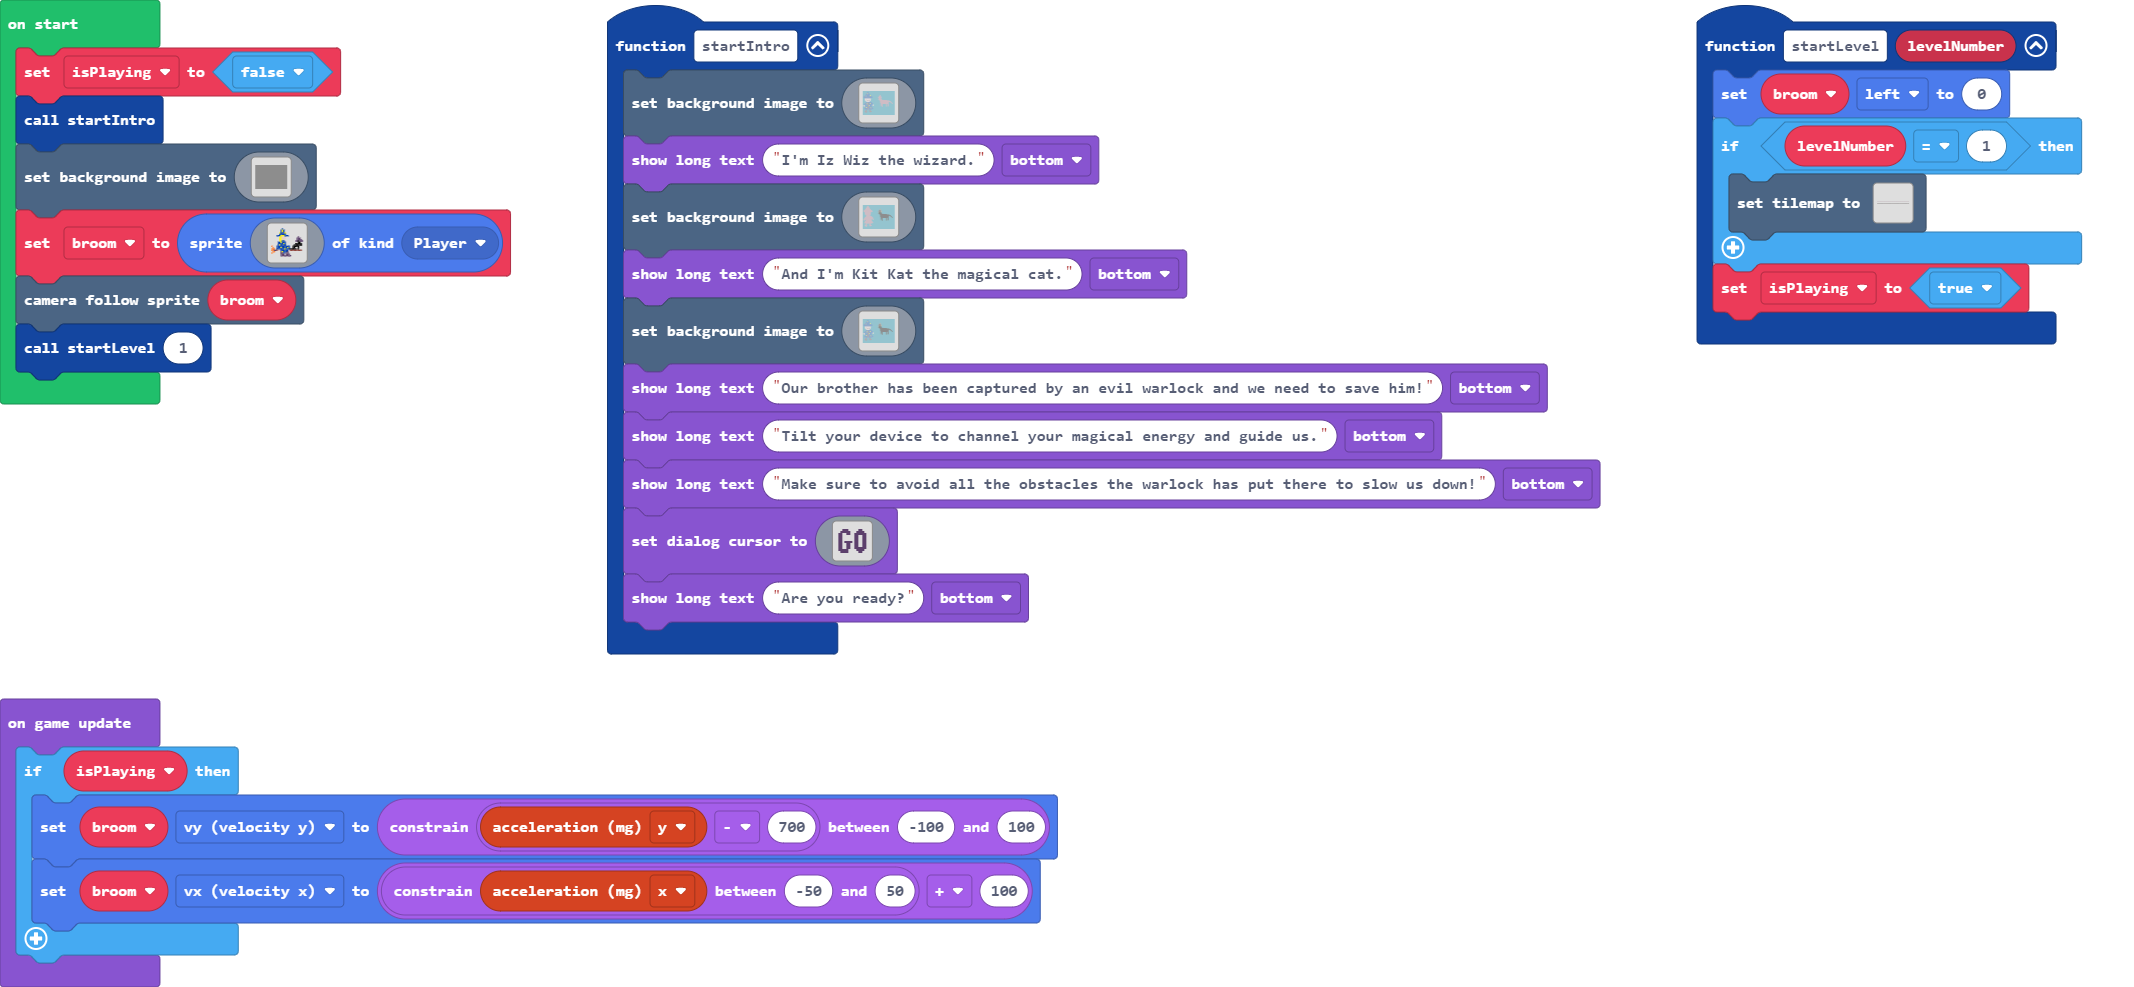
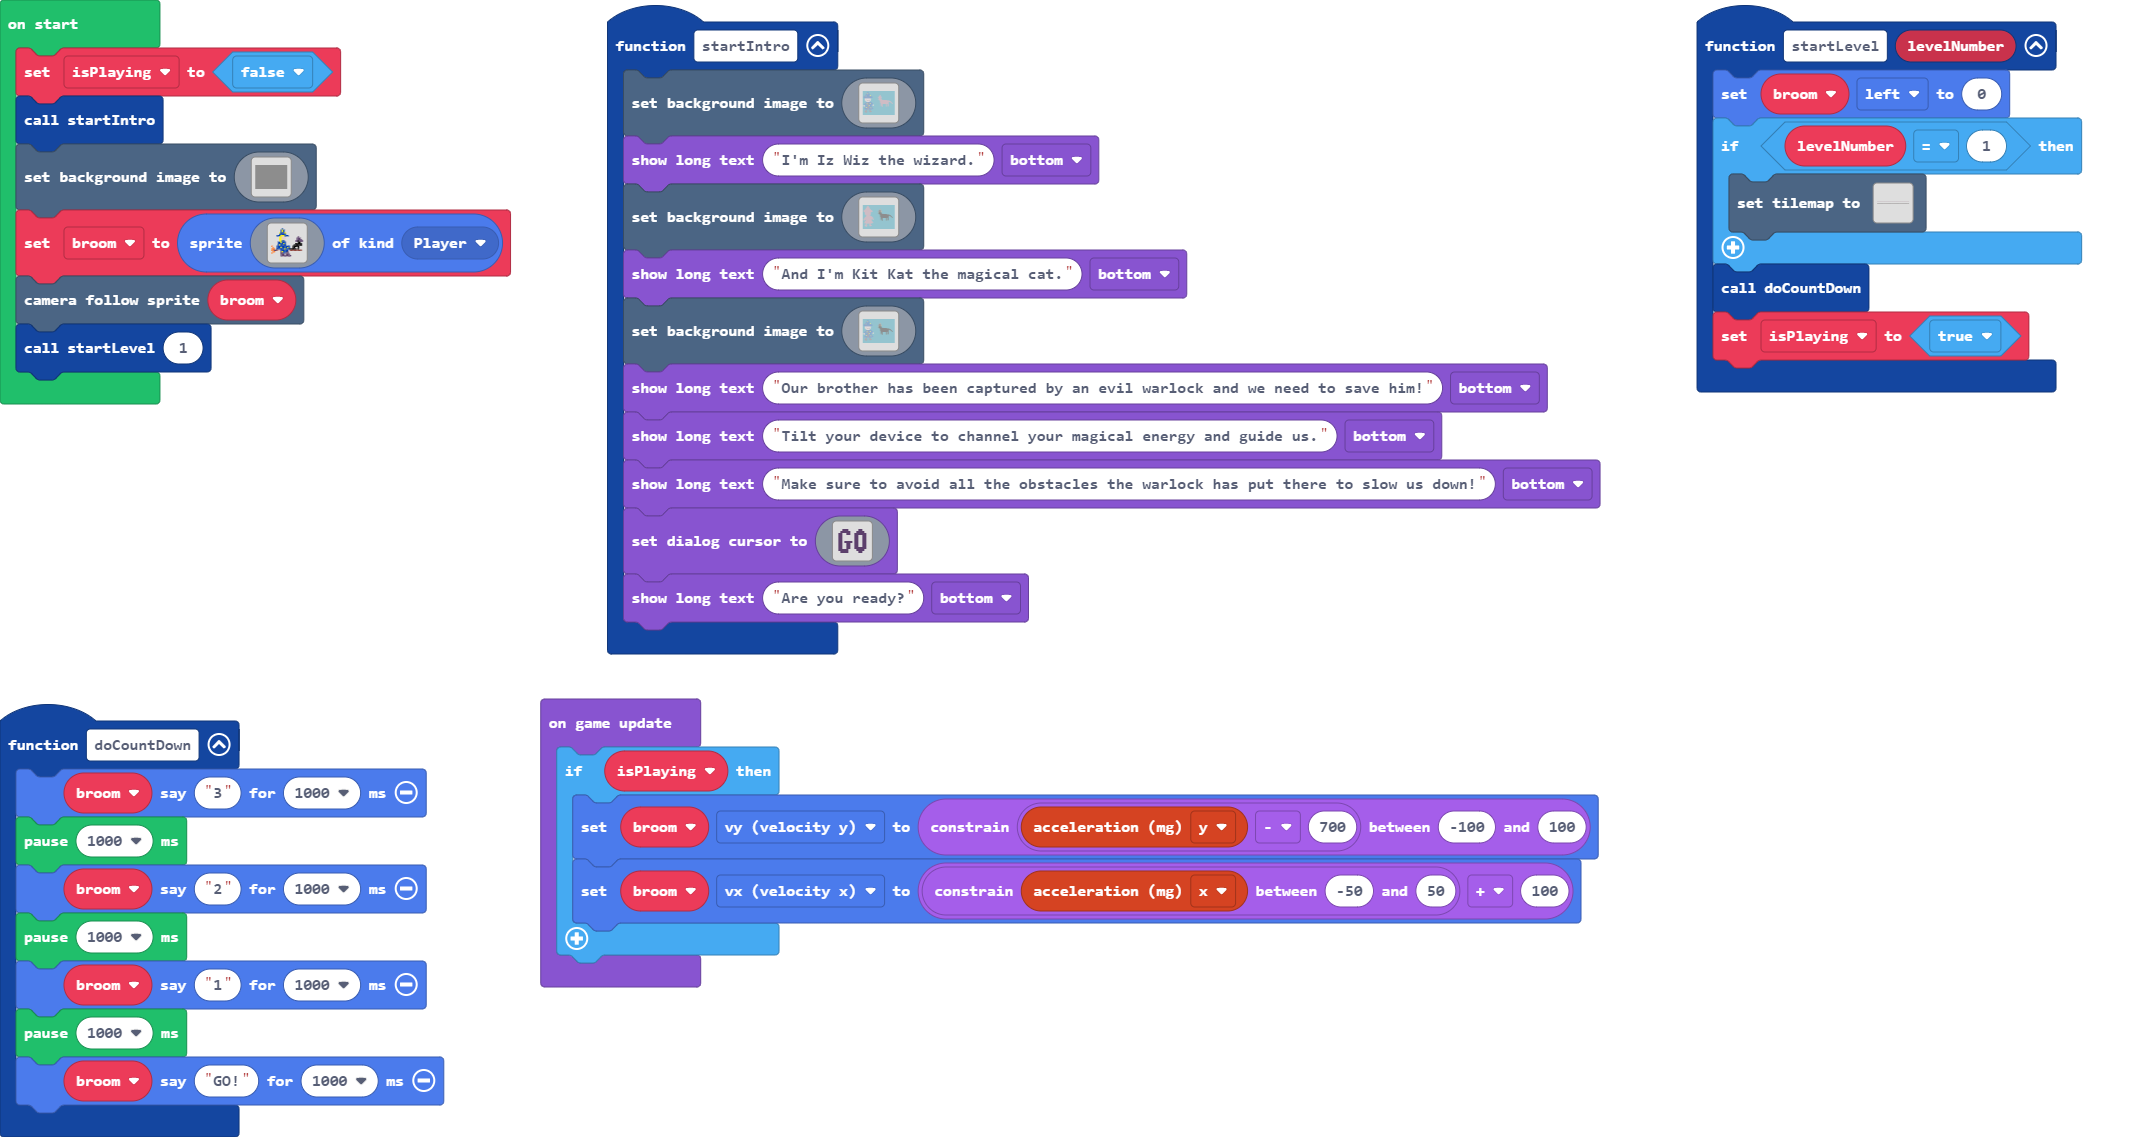
Add countdown before starting level.

diff --git a/main.ts b/main.ts
@@ -1,3 +1,12 @@
+function doCountDown () {
+    broom.say("3", 1000)
+    pause(1000)
+    broom.say("2", 1000)
+    pause(1000)
+    broom.say("1", 1000)
+    pause(1000)
+    broom.say("GO!", 1000)
+}
 function startIntro () {
     scene.setBackgroundImage(img`
         6666666666666666666666666666666666666666666666666666666666666666666666666666666666666666666666666666666666666666666666666666666666666666666666666666666666666666
@@ -404,6 +413,7 @@ function startLevel (levelNumber: number) {
             2222222222222222222222222222222222222222222222222222222222222222222222222222222222222222222222222222
             `, [myTiles.transparency16,sprites.builtin.forestTiles28,sprites.builtin.forestTiles6], TileScale.Sixteen))
     }
+    doCountDown()
     isPlaying = true
 }
 let broom: Sprite = null
